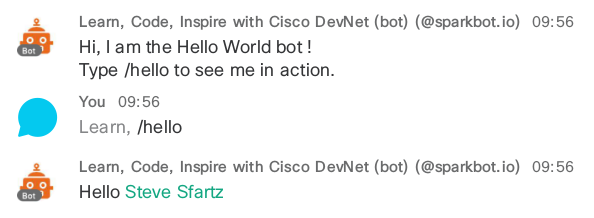
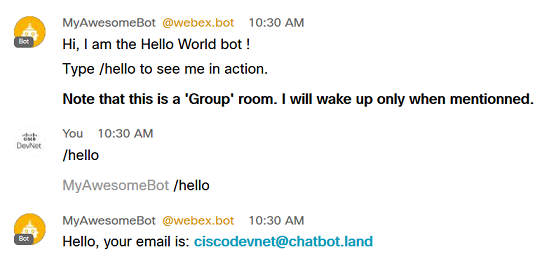
fix for helloword bot, no mention in 1-1 spaces

diff --git a/examples/helloworld.js b/examples/helloworld.js
@@ -54,9 +54,9 @@ bot.onCommand("fallback", function (command) {
 //
 bot.onCommand("hello", function (command) {
     var email = command.message.personEmail; // User that created the message orginally 
-    client.createMessage(command.message.roomId, "Hello <@personEmail:" + email + ">", { "markdown":true }, function(err, message) {
+    client.createMessage(command.message.roomId, `Hello, your email is: **${email}**`, { "markdown":true }, function(err, message) {
         if (err) {
-            console.log("WARNING: could not post Hello message to room: " + command.message.roomId);
+            console.log("WARNING: could not post message to room: " + command.message.roomId);
             return;
         }
     });

diff --git a/README.md b/README.md
@@ -98,7 +98,7 @@ Features illustrated by this example:
 - Welcome message as the bot is added in a room
 - Help command to display available commands
 - Fallback message if a command is not recognized
-- **Markdown formatting with mention**
+- Markdown formatting
 - Leverages the "node-sparkclient" library to wrap calls to the Webex Teams REST API
 
 This bot can be run as is with either a Developer or a Bot access token 
